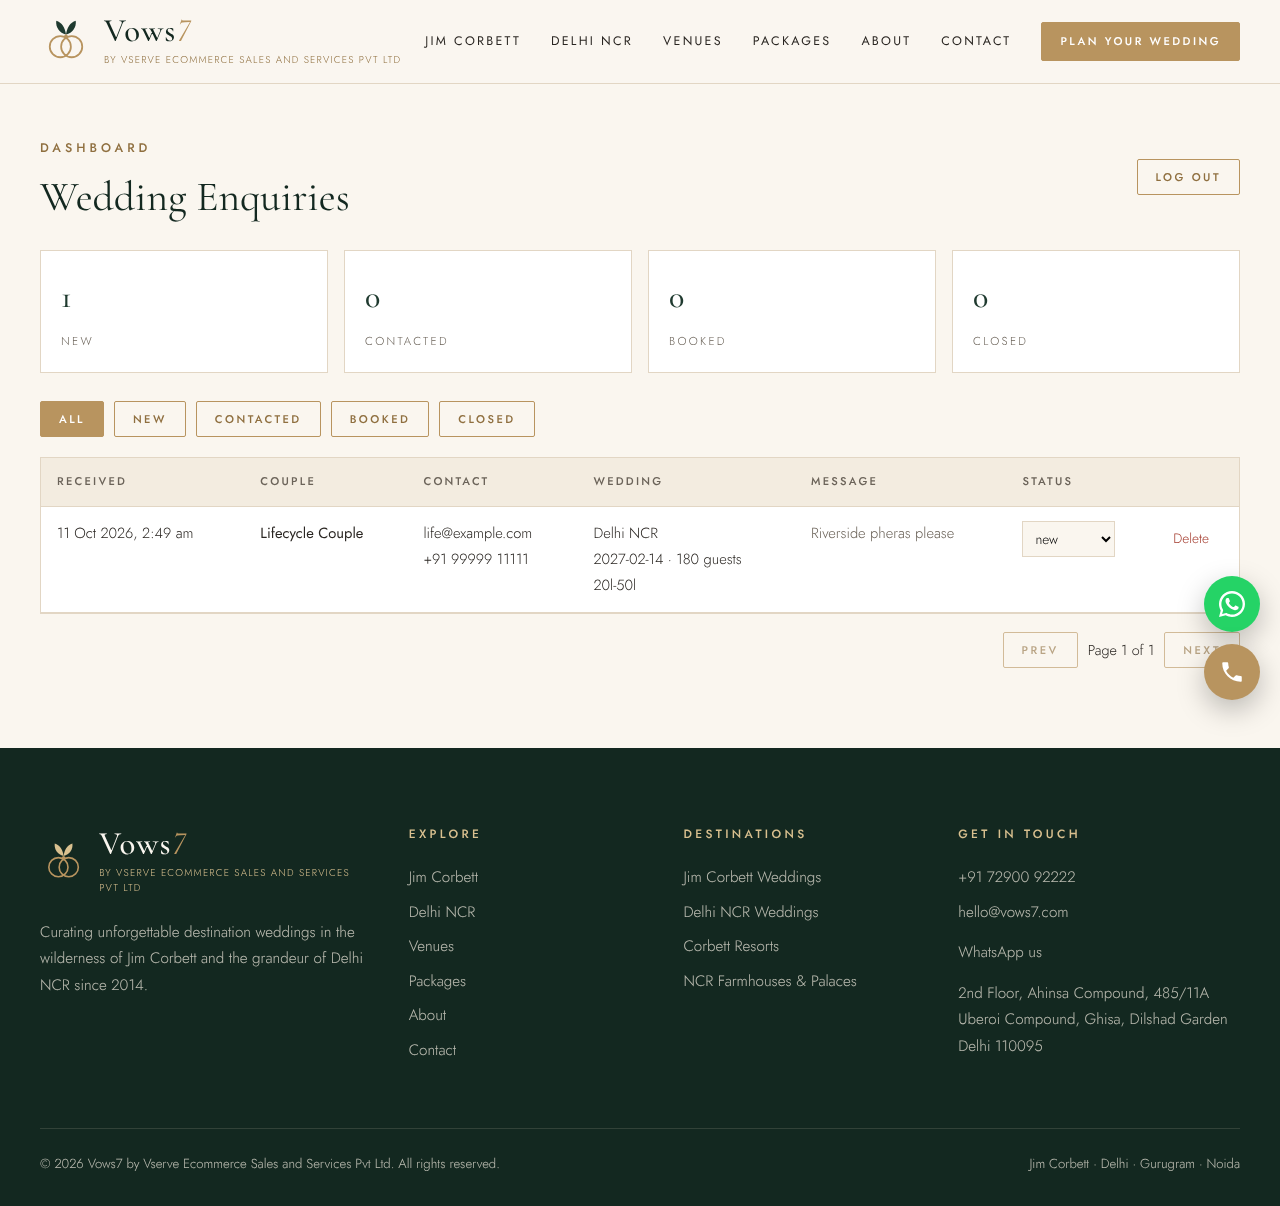
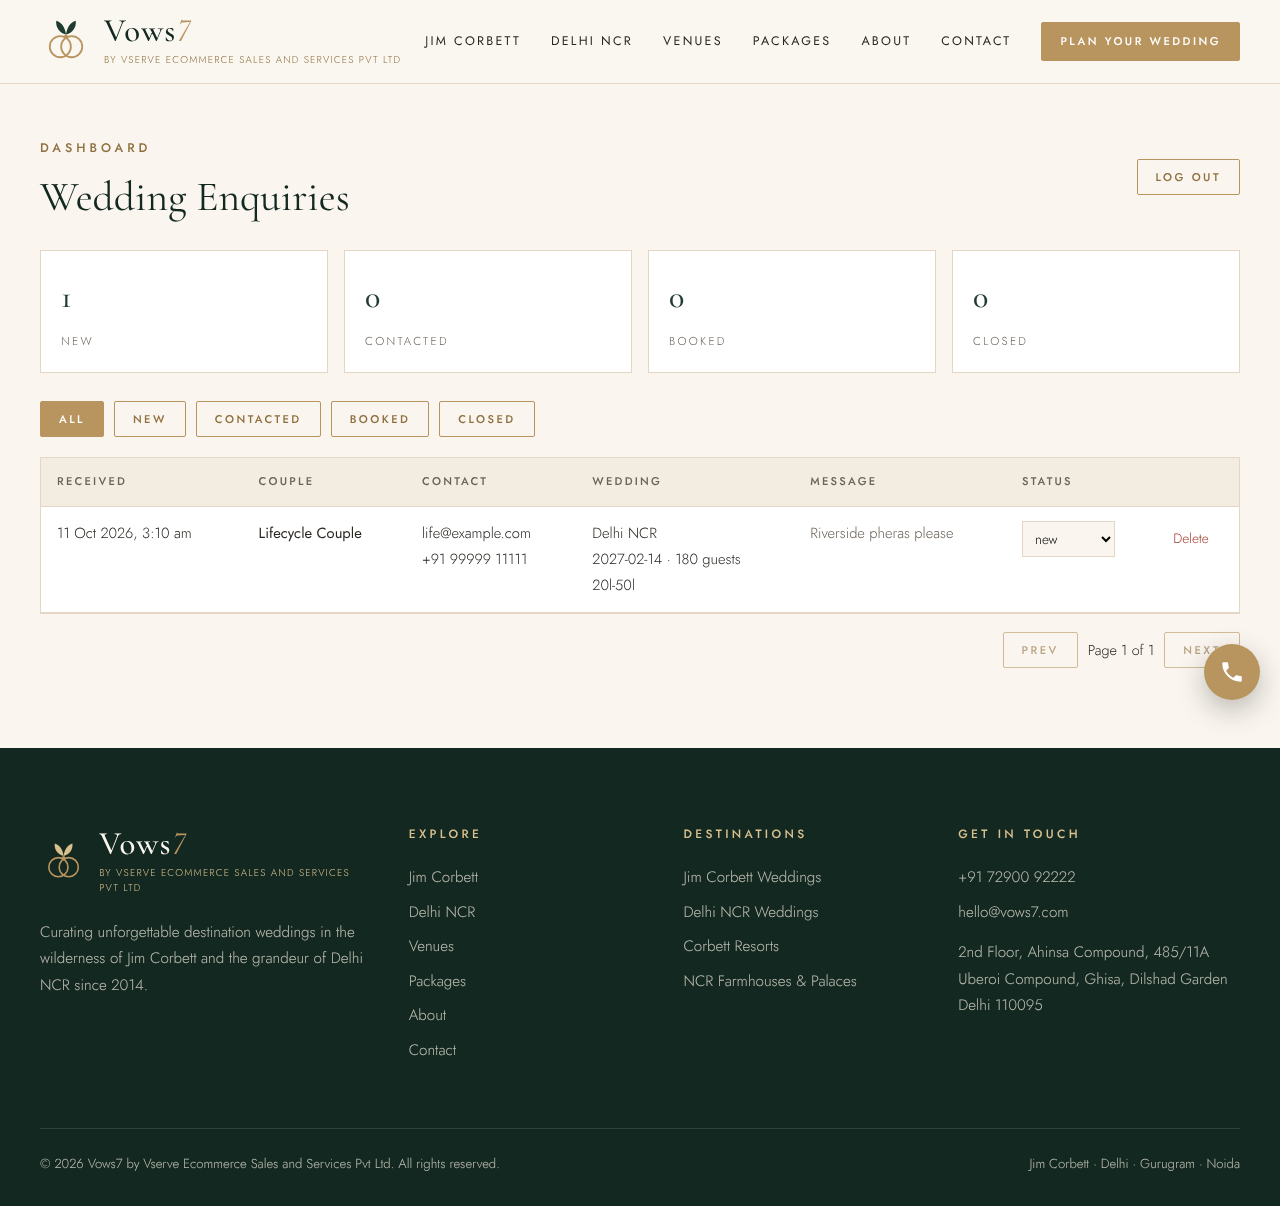
Remove WhatsApp button; keep floating call button
Claude-Session: https://claude.ai/code/session_01YAyzNRxsGeR9ifDg5XsTTi

diff --git a/frontend/components/FloatingActions.js b/frontend/components/FloatingActions.js
@@ -1,23 +1,10 @@
 import { site } from '@/lib/site';
 
 const tel = site.phone.replace(/[^\d+]/g, '');
-const waText = encodeURIComponent('Hi Vows7! I would like to plan a destination wedding.');
 
 export default function FloatingActions() {
   return (
     <div className="fab-stack">
-      <a
-        className="fab fab--wa"
-        href={`https://wa.me/${site.whatsapp}?text=${waText}`}
-        target="_blank"
-        rel="noopener noreferrer"
-        aria-label="Chat with us on WhatsApp"
-      >
-        <svg width="28" height="28" viewBox="0 0 24 24" fill="currentColor" aria-hidden="true">
-          <path d="M17.5 14.4c-.3-.1-1.8-.9-2-1-.3-.1-.5-.1-.7.1-.2.3-.8 1-.9 1.2-.2.2-.3.2-.6.1-.3-.1-1.3-.5-2.4-1.5-.9-.8-1.5-1.8-1.7-2.1-.2-.3 0-.5.1-.6l.4-.5c.2-.2.2-.3.3-.5.1-.2 0-.4 0-.5l-.9-2.2c-.2-.6-.5-.5-.7-.5h-.6c-.2 0-.5.1-.8.4-.3.3-1 1-1 2.5s1.1 2.9 1.2 3.1c.1.2 2.1 3.2 5.1 4.5.7.3 1.3.5 1.7.6.7.2 1.4.2 1.9.1.6-.1 1.8-.7 2-1.4.2-.7.2-1.3.2-1.4-.1-.2-.3-.2-.6-.4zM12 21.8c-1.8 0-3.5-.5-5-1.4l-.4-.2-3.7 1 1-3.6-.2-.4c-1-1.6-1.5-3.4-1.5-5.2C2.2 6.6 6.6 2.2 12 2.2c2.6 0 5.1 1 6.9 2.9 1.8 1.8 2.9 4.3 2.9 6.9 0 5.4-4.4 9.8-9.8 9.8zM20.5 3.5C18.2 1.2 15.2 0 12 0 5.4 0 0 5.4 0 12c0 2.1.6 4.2 1.6 6L0 24l6.2-1.6c1.8 1 3.8 1.5 5.8 1.5 6.6 0 12-5.4 12-12 0-3.2-1.2-6.2-3.5-8.4z" />
-        </svg>
-        <span className="fab__label">WhatsApp</span>
-      </a>
       <a className="fab fab--call" href={`tel:${tel}`} aria-label={`Call us at ${site.phone}`}>
         <svg width="26" height="26" viewBox="0 0 24 24" fill="currentColor" aria-hidden="true">
           <path d="M6.6 10.8c1.4 2.8 3.8 5.1 6.6 6.6l2.2-2.2c.3-.3.7-.4 1-.2 1.1.4 2.3.6 3.6.6.6 0 1 .4 1 1V20c0 .6-.4 1-1 1C10.6 21 3 13.4 3 4c0-.6.4-1 1-1h3.5c.6 0 1 .4 1 1 0 1.3.2 2.5.6 3.6.1.4 0 .8-.3 1l-2.2 2.2z" />

diff --git a/e2e/site.spec.js b/e2e/site.spec.js
@@ -91,13 +91,11 @@ test.describe('public pages', () => {
     }
   });
 
-  test('footer links and floating call / WhatsApp buttons', async ({ page }) => {
+  test('footer links and floating call button', async ({ page }) => {
     await page.goto('/');
-    const wa = page.getByRole('link', { name: 'Chat with us on WhatsApp' });
-    await expect(wa).toHaveAttribute('href', /^https:\/\/wa\.me\/917290092222/);
-    await expect(wa).toHaveAttribute('rel', /noopener/);
     const call = page.getByRole('link', { name: /Call us at/ });
     await expect(call).toHaveAttribute('href', 'tel:+917290092222');
+    expect(await page.getByRole('link', { name: /WhatsApp/i }).count()).toBe(0);
     await page.locator('footer').getByRole('link', { name: 'NCR Farmhouses & Palaces' }).click();
     await expect(page).toHaveURL('/venues?destination=delhi-ncr');
   });

diff --git a/frontend/app/contact/page.js b/frontend/app/contact/page.js
@@ -19,7 +19,6 @@ export default async function ContactPage({ searchParams }) {
           <p className="prose">Whether you dream of pheras by a jungle river or a grand palace reception, we would love to hear from you.</p>
           <dl className="facts" style={{ gridTemplateColumns: '1fr' }}>
             <div><dt>Call</dt><dd><a href={`tel:${site.phone.replace(/[^\d+]/g, '')}`}>{site.phone}</a></dd></div>
-            <div><dt>WhatsApp</dt><dd><a href={`https://wa.me/${site.whatsapp}`} target="_blank" rel="noopener noreferrer">{site.phone}</a></dd></div>
             <div><dt>Email</dt><dd><a href={`mailto:${site.email}`}>{site.email}</a></dd></div>
             <div><dt>Studio</dt><dd>{site.addressLines.map((l) => <span key={l} style={{ display: 'block' }}>{l}</span>)}</dd></div>
           </dl>

diff --git a/frontend/components/Footer.js b/frontend/components/Footer.js
@@ -31,7 +31,6 @@ export default function Footer() {
             <ul>
               <li><a href={`tel:${site.phone.replace(/\s/g, '')}`}>{site.phone}</a></li>
               <li><a href={`mailto:${site.email}`}>{site.email}</a></li>
-              <li style={{ marginTop: 6 }}><a href={`https://wa.me/${site.whatsapp}`} target="_blank" rel="noopener noreferrer">WhatsApp us</a></li>
               <li style={{ marginTop: 6 }}>{site.addressLines.map((l) => <span key={l} style={{ display: 'block' }}>{l}</span>)}</li>
             </ul>
           </div>

diff --git a/frontend/app/globals.css b/frontend/app/globals.css
@@ -305,7 +305,6 @@ img { max-width: 100%; display: block; }
 .fab:hover .fab__label, .fab:focus-visible .fab__label { opacity: 1; }
 @media (max-width: 720px) {
   .fab-stack { right: 14px; bottom: 14px; gap: 10px; }
-  /* On phones keep the call button always labelled so it is obvious. */
   .fab--call { width: 150px; }
   .fab--call .fab__label { opacity: 1; }
 }
